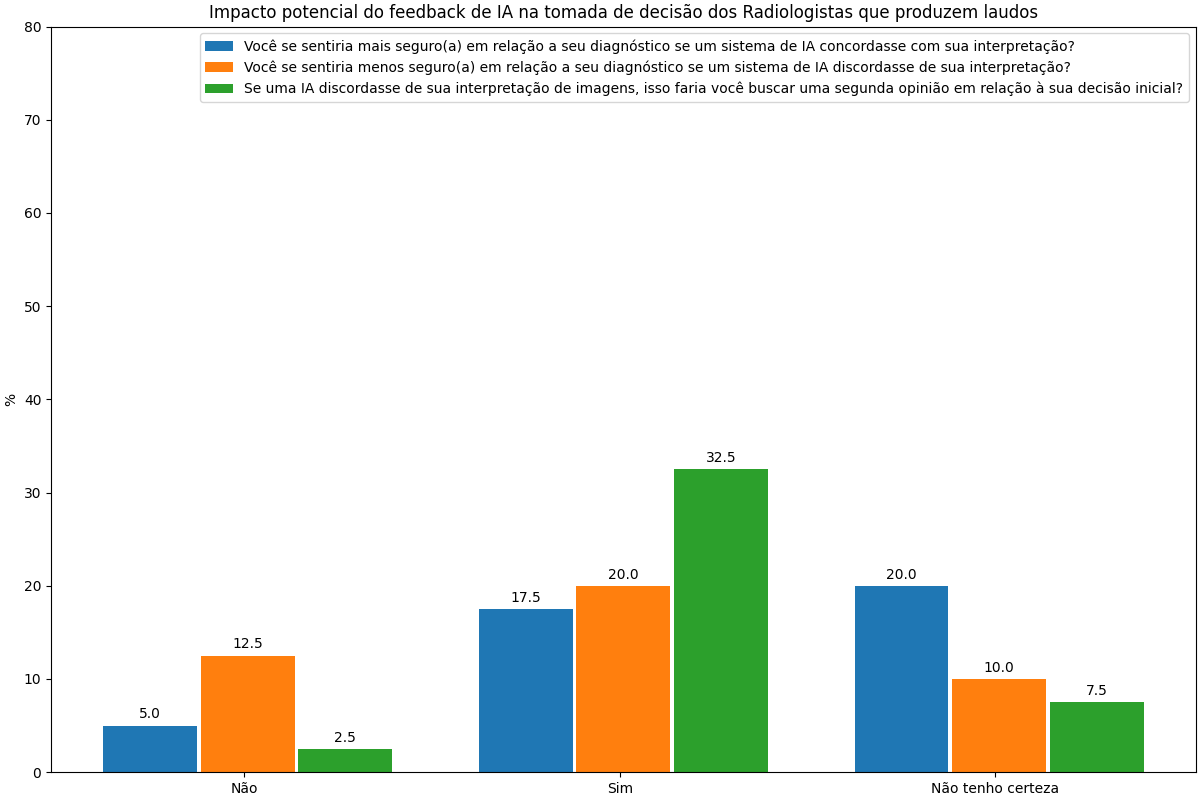
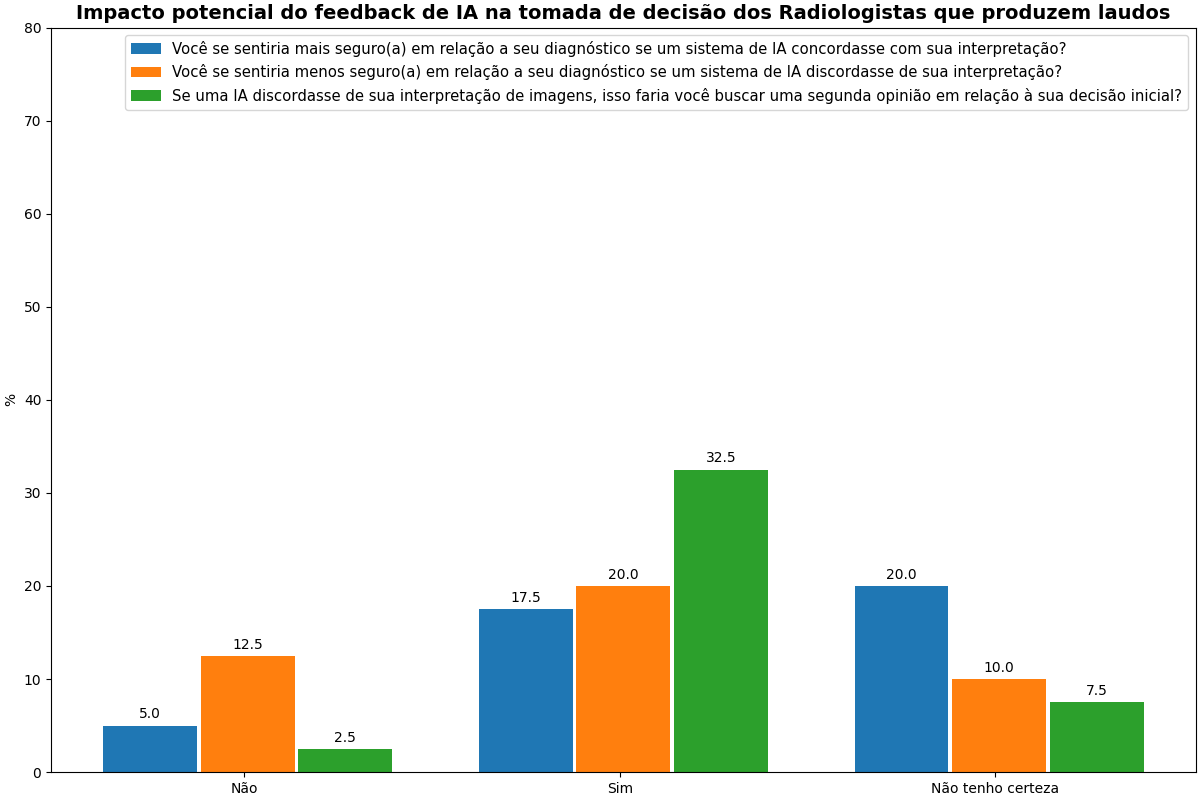
fix: adjusting teh title and legend fontsize

Changed region(s): [[0.0617, 0.0, 1.0, 0.1562], [0.185, 0.7812, 0.2158, 0.8125]]

diff --git a/src/stats/generate_stats.py b/src/stats/generate_stats.py
@@ -1,22 +1,14 @@
+from email.policy import strict
+from re import split
+import string
+
 import pandas as pd
-from scipy.stats import spearmanr, kendalltau
+from scipy.stats import spearmanr, kendalltau, kruskal
 
 # campo identificador da base de dados de repostas
 ID_FIELD = "data_hora"
 
-def calculate_spearmanr(df: pd.DataFrame, fields: tuple) -> tuple[float, float]:
-    """
-    Calcula o coeficiente de correlação de Spearman em relação a duas colunas específícas.  
-
-    Nesta função, é realizado um mapeamento das possíveis repostas para valores numéricos, o que permite o cálculo efetivo do coeficiente.
-    Além disso, são excluídos valores nulos, o que facilita o cálculo estatístico.
-
-    Parâmetros:
-        df (pd.DataFrame): DataFrame original, contendo os dados e o identificador geral.
-        fields (tuple): Tupla contendo as duas colunas a serem analisadas.
-    Retorno:
-        tuple[float, float]: Tupla contendo o coeficiente de correlação e o valor de "p" (rho, p).
-    """
+def modularizating_data(df: pd.DataFrame, fields: tuple):
     global ID_FIELD
 
     # Evitar Warning de Pandas
@@ -43,6 +35,43 @@ def calculate_spearmanr(df: pd.DataFrame, fields: tuple) -> tuple[float, float]:
     # Restaura a ordem dos índices
     strict_df = strict_df.reset_index(drop=True)
 
+    return strict_df
+
+def filter_by_sector_avaliation(df: pd.DataFrame, sector_name, avaliation_columnn):
+    sector_df = df[df["area_atuacao"] == sector_name]
+
+    return list(sector_df[avaliation_columnn])
+
+def calculate_kruskal_av_ai_app(df: pd.DataFrame) -> tuple[float, float]:
+    av_app_ai_physics = map(lambda x: int(x.split(" - ")[0]), filter_by_sector_avaliation(df, "Médico Especialista", "av_aplicacao_ia"))
+    av_app_ai_physics = list(av_app_ai_physics)
+    
+    av_app_ai_resident = map(lambda x: int(x.split(" - ")[0]), filter_by_sector_avaliation(df, "Médico Residente", "av_aplicacao_ia"))
+    av_app_ai_resident = list(av_app_ai_resident)
+
+    av_app_ai_tecnics = map(lambda x: int(x.split(" - ")[0]), filter_by_sector_avaliation(df, "Técnico em Radiologia", "av_aplicacao_ia"))
+    av_app_ai_tecnics = list(av_app_ai_tecnics)
+
+    mn, p = kruskal(av_app_ai_physics, av_app_ai_resident, av_app_ai_tecnics)
+
+    return (float(mn), float(p))
+
+
+
+def calculate_spearmanr(df: pd.DataFrame, fields: tuple) -> tuple[float, float]:
+    """
+    Calcula o coeficiente de correlação de Spearman em relação a duas colunas específícas.  
+
+    Nesta função, é realizado um mapeamento das possíveis repostas para valores numéricos, o que permite o cálculo efetivo do coeficiente.
+    Além disso, são excluídos valores nulos, o que facilita o cálculo estatístico.
+
+    Parâmetros:
+        df (pd.DataFrame): DataFrame original, contendo os dados e o identificador geral.
+        fields (tuple): Tupla contendo as duas colunas a serem analisadas.
+    Retorno:
+        tuple[float, float]: Tupla contendo o coeficiente de correlação e o valor de "p" (rho, p).
+    """
+    strict_df = modularizating_data(df, fields)
     sp, p = spearmanr(strict_df[fields[0]], strict_df[fields[1]])
 
     return (float(sp), float(p))
@@ -61,32 +90,15 @@ def calculate_kendallt(df: pd.DataFrame, fields: tuple) -> tuple[float, float]:
     Retorno:
         tuple[float, float]: Tupla contendo o coeficiente de correlação e o valor de "p" (tau, p).
     """
-    global ID_FIELD
-
-    # Evitar Warning de Pandas
-    strict_df = df[list(fields)].copy() 
-    # Excluir valores NaN
-    strict_df = strict_df.dropna() 
-
-    mapping = dict()
-
-    # Ordenando dados (alfabeticamente) no set para evitar inconsistências no mapeamento
-    possible_answers = sorted(set(strict_df[fields[0]])) 
-
-    idx = 0
-
-    for ans in possible_answers:
-        mapping[ans] = idx
-        idx += 1
-
-    strict_df[fields[0]] = strict_df[fields[0]].map(mapping)
-    strict_df[fields[1]] = strict_df[fields[1]].map(mapping)
-
-    strict_df = strict_df.dropna()
-    
-    # Restaura a ordem dos índices
-    strict_df = strict_df.reset_index(drop=True)
-
+    strict_df = modularizating_data(df, fields)
     kt, p = kendalltau(strict_df[fields[0]], strict_df[fields[1]])
 
     return (float(kt), float(p))
+
+if __name__ == "__main__":
+    CSV_PATH = "data/csv_files/respostas.csv"
+    
+    df = pd.read_csv(CSV_PATH)
+    ks_stats = calculate_kruskal_av_ai_app(df)
+
+    print(f"ks: {ks_stats[0]:.4f}, p: {ks_stats[1]:.15f}")

diff --git a/src/plot/generate_graphs.py b/src/plot/generate_graphs.py
@@ -15,7 +15,7 @@ def generate_graph_1(df):
                         figsize=(8, 8),
                         ylabel='')
     
-    plt.title("Proporção de Cargos", fontsize=10)
+    plt.title("Proporção de Cargos", fontsize=10, fontweight='bold')
 
     # Adiciona uma legenda lateral para ficar mais organizado
     plt.legend(df_speciality.index, title="Cargos", loc="upper left", bbox_to_anchor=(1.20, 1.20))
@@ -88,9 +88,9 @@ def generate_graph_3(df: pd.DataFrame):
         multiplier += 1
 
     ax.set_ylabel('%')
-    ax.set_title(title)
+    ax.set_title(title, fontsize=14, fontweight='bold')
     ax.set_xticks(x + adjustment, answer_categories)
-    ax.legend(loc='upper right', ncols=1)
+    ax.legend(loc='upper right', ncols=1, fontsize=10.7)
     ax.set_ylim(0, 80)
 
     plt.savefig(PATH + "graph3.png")
@@ -113,7 +113,8 @@ def generate_graph_4(df: pd.DataFrame):
 
     ax.set_xticks(range(len(categories)))
     ax.set_ylabel('%')
-    ax.set_title(title, pad=20)
+    title_obj = ax.set_title(title, pad=20, fontsize=17, wrap=True, fontweight='bold')
+    title_obj._get_wrap_line_width = lambda: 1500
     ax.set_ylim(0, max(values_to_plot) + 5)
 
     plt.savefig(PATH + "graph4.png")
@@ -142,21 +143,21 @@ def generate_graph_5(df: pd.DataFrame):
     ax.xaxis.set_ticks_position('none')
     ax.yaxis.set_ticks_position('none')
 
-    ax.set_yticklabels(ans_poss_labels, ma='center')
+    ax.set_yticklabels(ans_poss_labels, ma='center', fontsize=12)
 
     for s in ('left', 'right'):
         ax.spines[s].set_visible(False)
 
     ax.invert_yaxis()
 
-    ax.set_xlabel('Frequência da Funcionalidade')
+    ax.set_xlabel('Frequência da Funcionalidade', fontsize=15)
 
     ax.grid(visible=True, color='grey', linestyle='-.', linewidth=0.5, alpha=0.2)
 
     for i in ax.patches:
         plt.text(i.get_width()+0.1, i.get_y()+0.3, str(round((i.get_width()), 2)), fontsize=10, color='black', ma='center')
 
-    ax.set_title(title, pad=10)
+    ax.set_title(title, pad=10, fontsize=15, fontweight='bold')
 
     plt.savefig(PATH + "graph5.png")
 
@@ -179,7 +180,7 @@ def generate_graph_6(df: pd.DataFrame):
 
     ax.set_xticks(range(len(rates))) # isso permite que todos os valores (eixo-x) de rate apareçam, sem perder os dados
     ax.set_xticklabels(rates)
-    ax.set_ylabel('Frequência')
+    ax.set_ylabel('Frequência', fontsize=12)
     ax.set_xlabel('Avaliação')
     ax.set_ylim(0, max(times_chosen) + 5)
     ax.set_title('Como você avalia a aplicação de inteligência artificial no diagnóstico radiológico?', fontweight='bold')
